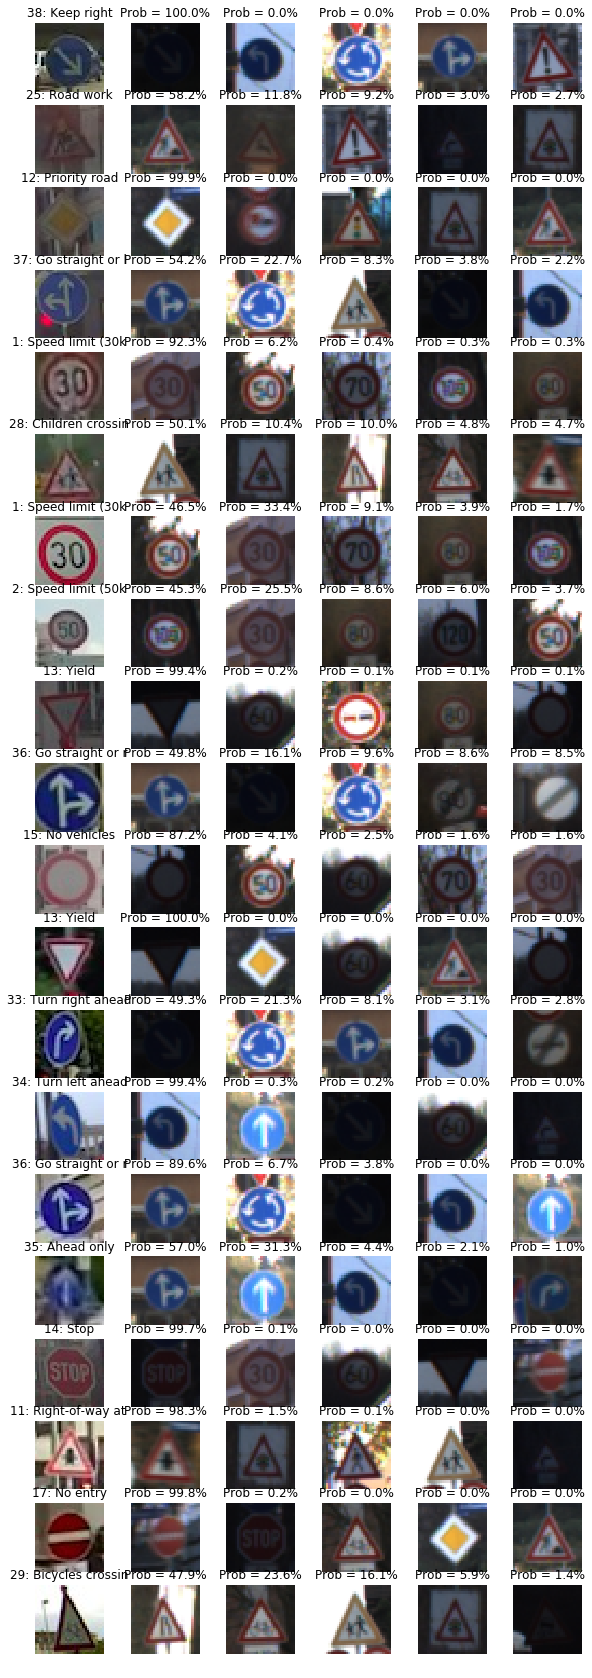
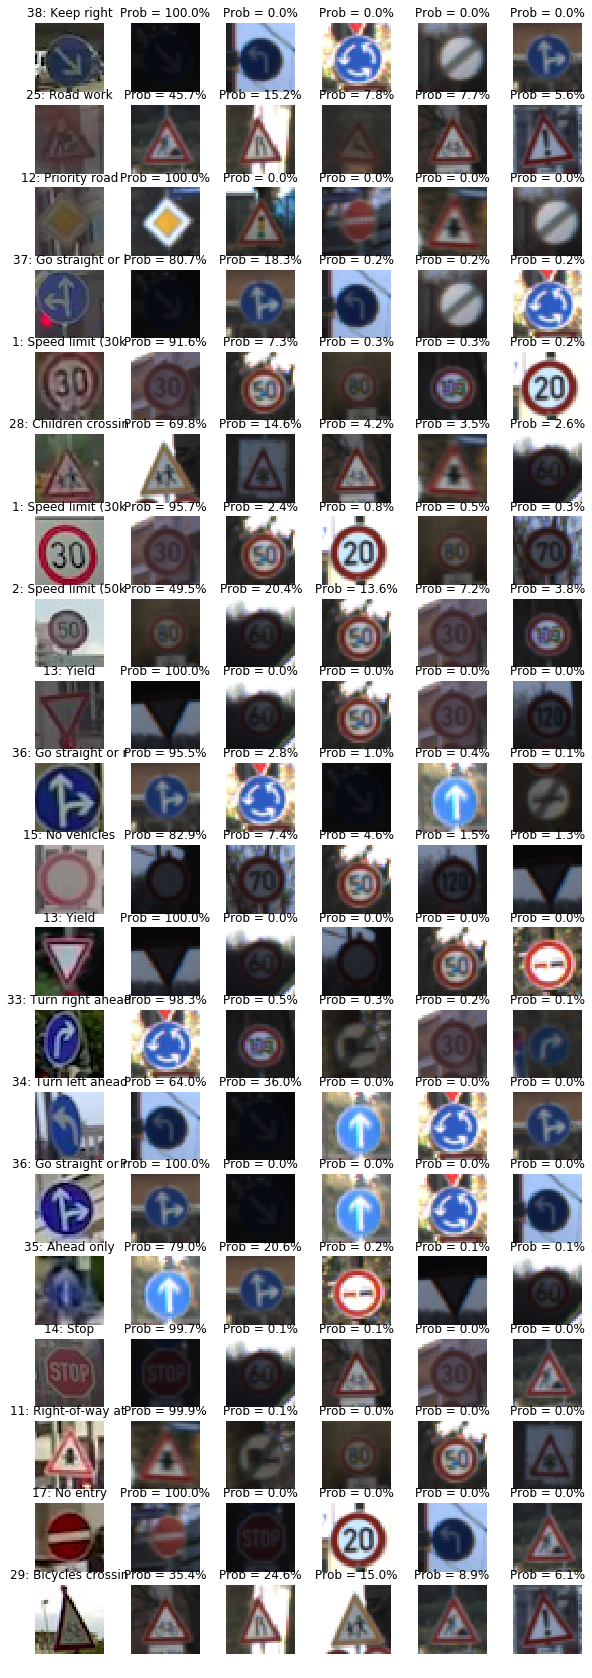
update writeup

diff --git a/CarND-Traffic-Sign-Classifier-Project/Traffic_Sign_Recognition.md b/CarND-Traffic-Sign-Classifier-Project/Traffic_Sign_Recognition.md
@@ -10,18 +10,10 @@
 [image7]: ./figs/3_improved_model_accuracy.png "Improved Accuracy"
 [image8]: ./figs/4_new_images.png "New images"
 [image9]: ./figs/5_top5_prob.png "Top 5"
-[image10]: ./figs/4_new_images.png "New images"
+[image10]: ./figs/predict1.png "Prediction 1"
+[image11]: ./figs/predict2.png "Prediction 2"
+[image12]: ./figs/predict3.png "Prediction 3"
 
-
-<!-- 
-[image2]: ./examples/grayscale.jpg "Grayscaling"
-[image3]: ./examples/random_noise.jpg "Random Noise"
-[image4]: ./examples/placeholder.png "Traffic Sign 1"
-[image5]: ./examples/placeholder.png "Traffic Sign 2"
-[image6]: ./examples/placeholder.png "Traffic Sign 3"
-[image7]: ./examples/placeholder.png "Traffic Sign 4"
-[image8]: ./examples/placeholder.png "Traffic Sign 5"
- -->
 
 ### Writeup and Code
 
@@ -188,8 +180,8 @@ histogram equalization, batch normalization, L2 regularization.
 
 My final model results were:
 * training set accuracy of 99.3%
-* validation set accuracy of 96.0%
-* test set accuracy of 95.0% 
+* validation set accuracy of 95.9%
+* test set accuracy of 94.0% 
 
 ![Improved Accuracy][image7]
 
@@ -223,56 +215,121 @@ roughly centered, and image size are resized or cropped to be 32x32 in pixels.
 Here are 20 German traffic signs that I captured with this method:
 ![New images found on the web][image8]
 
+Efforts were made to make sure these traffic signs are as close to the German traffic sign training data sets.
+But in reality, there are a few differences in the new images. 
+1. Some images are captured from a titled angel, resulting in different perspective angle. 
+2. Some images are zoomed in too much with some parts of the sign cropped off from the images.
+3. Lighting condition and/or camera quality may slightly differ between the training and newly captured images.
+All these contribute to the difference beween "out of sample" data differ from the training sample data, 
+may result in reduced prediction accuracy.
 
 #### 2. Model's predictions on these new traffic signs
 
 Here are the results of the prediction:
 
-| Image			        |     Prediction	 			|    Accuracy    |
+| 	 Prediction       	|     Image	True Label			|    Correct ?   |
 |:---------------------:|:-----------------------------:|:--------------:|
-|  Keep right 			|   Keep right                  | <span style="color:green"> ✓ </span> |
-|  General caution  	|   General caution             | <span style="color:red"> ✘ </span> |
-|  Priority road  		|   Priority road             |  
-|  Turn left ahead  	|   Turn left ahead             |
-|  Speed limit (30km/h) |   Speed limit (30km/h)             |
-|  Children crossing  	|   Children crossing             |
-|  Speed limit (30km/h) |   Speed limit (30km/h)             |
-|  Priority road  		|   Priority road             |
-|  Yield  				|   Yield             |
-|  Roundabout mandatory |   Roundabout mandatory             |
-|  No vehicles  		|   No vehicles             |
-|  Yield  				|   Yield             |
-|  Roundabout mandatory |   Roundabout mandatory             |
-|  Turn left ahead  	|   Turn left ahead             |
-|  Go straight or right |   Go straight or right             |
-|  Ahead only  			|   Ahead only             |
-|  Stop  				|   Stop             |
-|  Right-of-way at the next intersection  |   Right-of-way at the next intersection
-|  No entry  			|   No entry             |
-|  Bicycles crossing    |   Bicycles crossing             |
+|  Keep right 			| Keep right                  	|     ✓ 		 |
+|  Road work 			| Road work                  	|     ✓ 		 |
+|  Priority road 		| Priority road                 |     ✓ 		 |
+|  Keep right 			| Go straight or left           |     ✘ 		 |
+|  Speed limit (30km/h) | Speed limit (30km/h)          |     ✓ 		 |
+|  Children crossing 	| Children crossing             |     ✓ 		 |
+|  Speed limit (30km/h) | Speed limit (30km/h)          |     ✓ 		 |
+|  Speed limit (80km/h) | Speed limit (50km/h)          |     ✘ 		 |
+|  Yield 				| Yield                  		|     ✓ 		 |
+|  Go straight or right | Go straight or right          |     ✓ 		 |
+|  No vehicles 			| No vehicles                  	|     ✓ 		 |
+|  Yield 				| Yield                  		|     ✓ 		 |
+|  Roundabout mandatory | Turn right ahead            	|     ✘ 		 |
+|  Turn left ahead 		| Turn left ahead               |     ✓ 		 |
+|  Go straight or right | Go straight or right          |     ✓ 		 |
+|  Ahead only 			| Ahead only                  	|     ✓ 		 |
+|  Stop 				| Stop                  		|     ✓ 		 |
+|  Right-of-way at the next intersection | Right-of-way at the next intersection  | ✓ |
+|  No entry 			| No entry                  	|     ✓ 		 |
+|  Bicycles crossing 	| Bicycles crossing             |     ✓ 		 |
+|:---------------------:|:-----------------------------:|:--------------:|
+|						Accuracy 						|  17/20 = 85%   |
 
 
-The model was able to correctly guess 15 of the 20 traffic signs, which gives an accuracy of 75%. 
-This compares worse to the accuracy on the test set of 94.2%.
+The model was able to correctly guess 17 of the 20 traffic signs, which gives an accuracy of 85%. 
+This compares worse to the accuracy on the test set of 94.2%. 
 
 #### 3. Describe how certain the model is when predicting on each of the five new images by looking at the softmax probabilities for each prediction. Provide the top 5 softmax probabilities for each image along with the sign type of each probability. (OPTIONAL: as described in the "Stand Out Suggestions" part of the rubric, visualizations can also be provided such as bar charts)
 
-![Top 5 Prediction][image8]
+The code for making predictions on my final model is located in the 12th and 13th cell of the Ipython notebook.
+
+The figure below displays how the model predicts the newly captured signs. 
+The first column are the input images, the 2nd column are the sample image with highest probability (probability labeled above images),
+the 3rd column are the sample image with 2nd highest probability, etc.
+
+![Top 5 Prediction][image9]
 
 
-The code for making predictions on my final model is located in the 11th cell of the Ipython notebook.
+Let's look at these three mis-identified images.
 
-For the first image, the model is relatively sure that this is a stop sign (probability of 0.6), and the image does contain a stop sign. The top five soft max probabilities were
+![Prediction #1][image10]
+
+The 1st mis-identified image "Go straight or left".
+Model predicted traffic sign name with probability:
 
 | Probability         	|     Prediction	        					| 
 |:---------------------:|:---------------------------------------------:| 
-| .60         			| Stop sign   									| 
-| .20     				| U-turn 										|
-| .05					| Yield											|
-| .04	      			| Bumpy Road					 				|
-| .01				    | Slippery Road      							|
+| .81         			| Keep right									| 
+| .18     				| Go straight or right							|
+| .002					| Turn left ahead								|
+| .002	      			| End of all speed and passing limits			|
+| .002				    | Roundabout mandatory 							|
 
+The model is relatively sure that this is a Keep right sign (probability of 0.81), 
+and may be a "Go straight or right" sign with probability 0.18. It's actually a "Go straight or left" sign. 
+It's a bit surprise that the correct sign is not even in the top 5 candidates. 
+It's probably due to the red traffic light in the image that confused the model, or the sign is off the center to the top.
 
-For the second image ... 
+![Prediction #2][image11]
+
+For the 2nd mis-identified image "Speed limit (50km/h)".
+Model predicted traffic sign name with probability:
+
+| Probability         	|     Prediction	        					| 
+|:---------------------:|:---------------------------------------------:| 
+| .49         			| Speed limit (80km/h)							| 
+| .20     				| Speed limit (60km/h)							|
+| .14					| Speed limit (50km/h)							|
+| .07	      			| Speed limit (30km/h)							|
+| .04				    | Speed limit (100km/h) 						|
+
+The model seem very confident the image is a speed limit sign (top 5 prediction are all speed limit signs), 
+since they all have the same round shape, red circle color, and black number inside. 
+But it is not very confident on the actually number in the speed limit sign. 
+The probability of the top candidates are not differ much with the correct one the 3rd on the list.
+
+![Prediction #3][image12]
+
+For the 3rd mis-identified image "Turn right ahead"
+
+Model predicted traffic sign name with probability:
+
+       [40,  7, 42,  1, 33],
+
+  [  9.82987165e-01,   5.14808297e-03,   2.96556833e-03,
+          1.70371437e-03,   1.34482677e-03],
+
+| Probability         	|     Prediction	        					| 
+|:---------------------:|:---------------------------------------------:| 
+| .98         			| Roundabout mandatory							| 
+| .005     				| Speed limit (100km/h)							|
+| .003					| End of no passing by vehicles over 3.5 metric ...	|
+| .002	      			| Speed limit (30km/h)							|
+| .001				    | Turn right ahead 								|
+
+The model is very confident the image is a "Roundabout" sign (probability 98%), 
+but it is actually a "Turn right ahead" sign. 
+The are some similarity in the "Roundabout" and "Turn right ahead" signs, so it is possible to have this wrongly predicted. 
+The correct sign is listed on the 5th top candidate, though with very low probability.
+
+---
+### Conclusion
 
 
